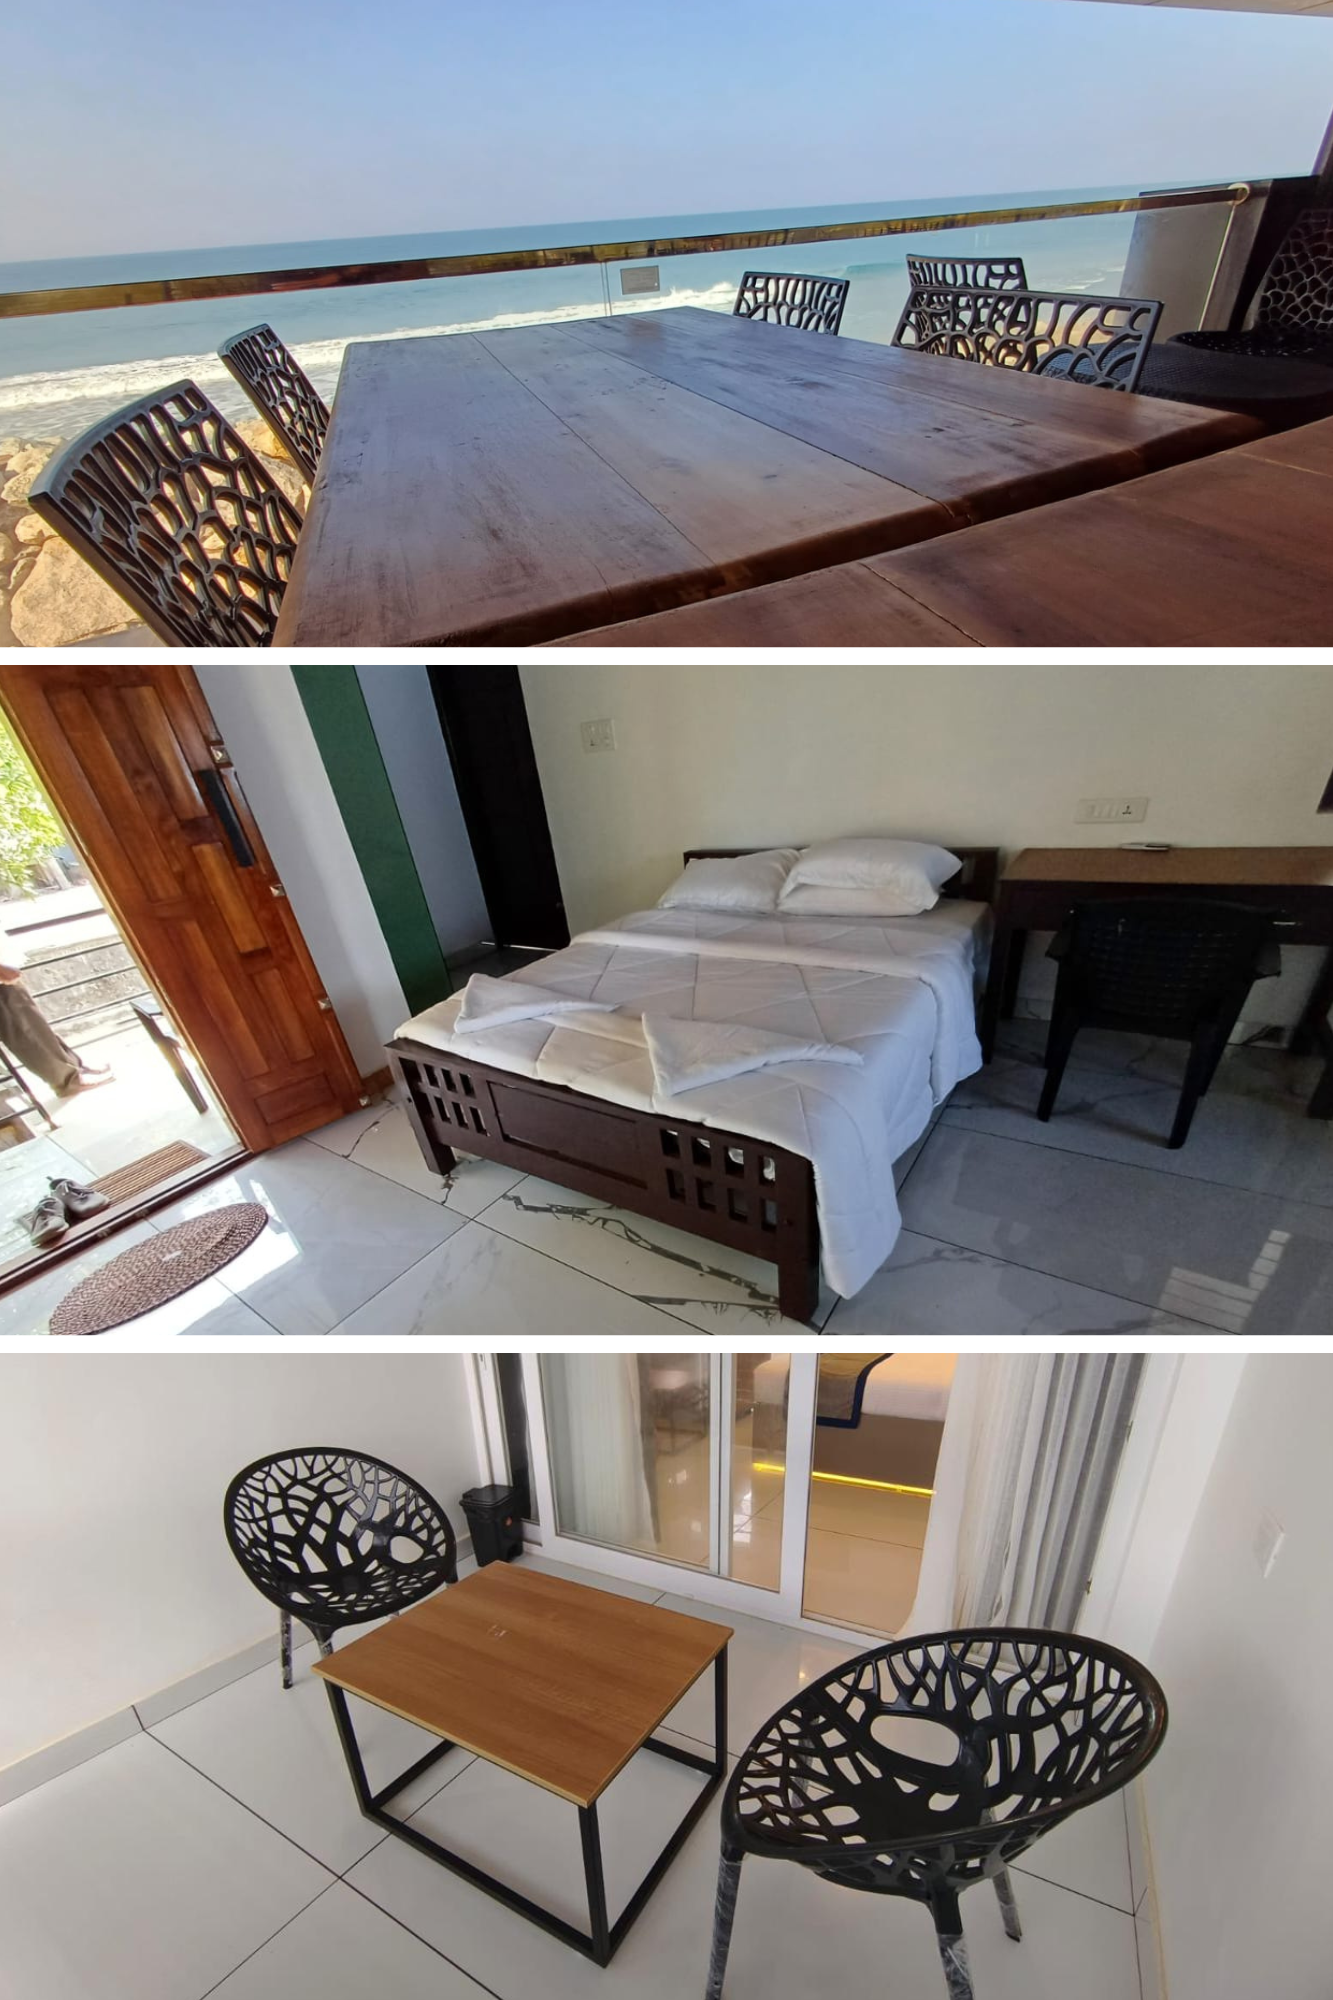
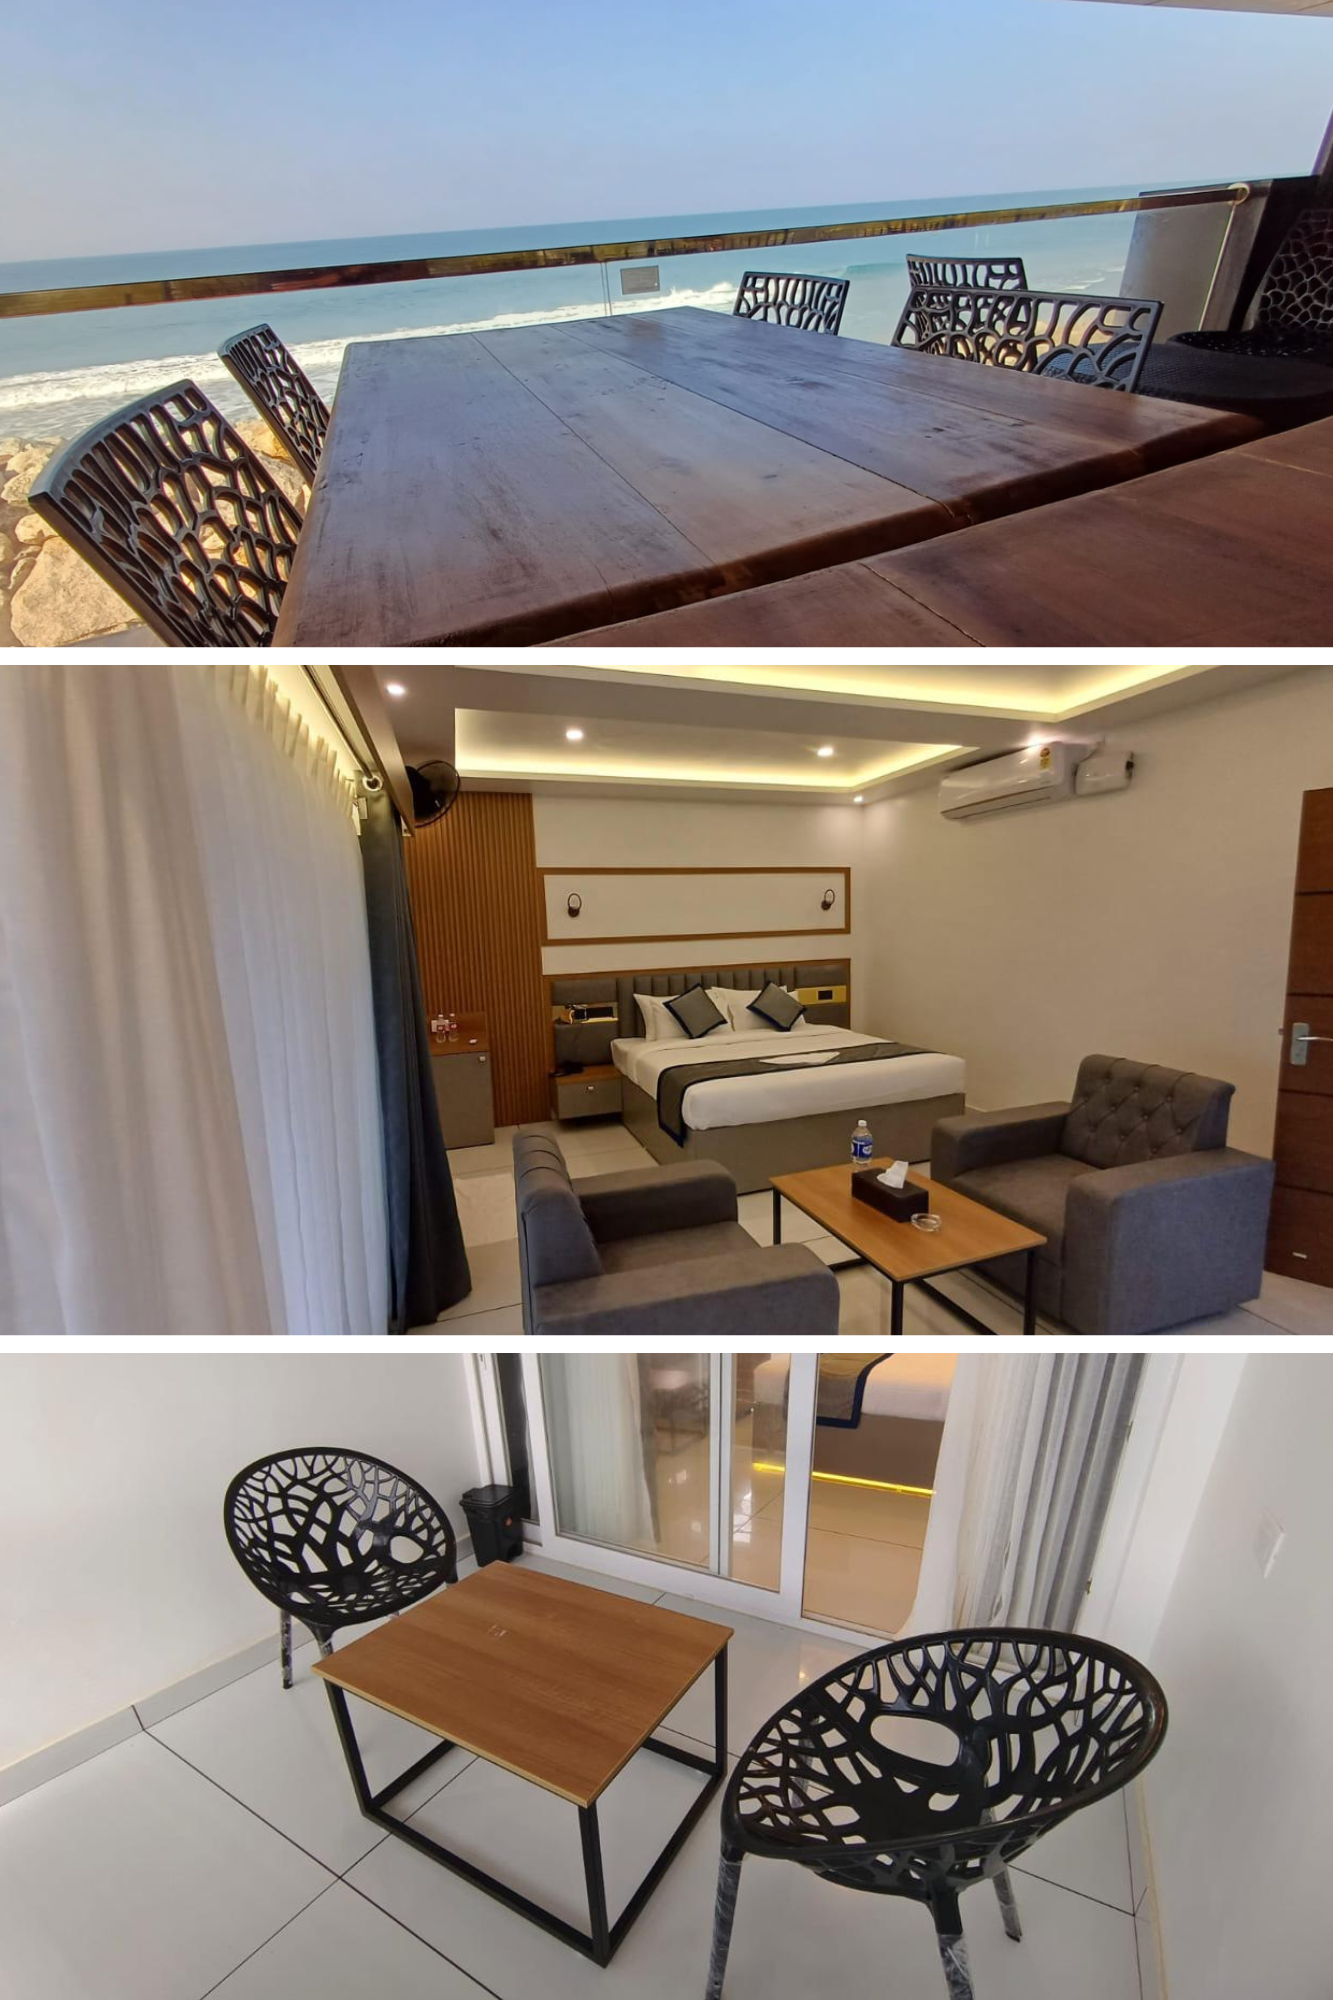
images updated as per clients requirement

Changed region(s): [[0.0, 0.31, 1.0, 0.682]]

diff --git a/index.html b/index.html
@@ -424,7 +424,7 @@
                                     data-aos-delay="200"
                                 >
                                     <img
-                                        src="assets/img/cards/premium.png"
+                                        src="assets/img/cards/beach.png"
                                         height="500"
                                         width="400"
                                         alt=""
@@ -590,7 +590,7 @@
                                 </div>
                                 <div class="col-lg-6 order-1 order-lg-2 text-center">
                                     <img
-                                        src="assets/img/cards/beach.png"
+                                        src="assets/img/cards/premium.png"
                                         alt=""
                                         height="500"
                                         width="400"

diff --git a/service-2.html b/service-2.html
@@ -155,7 +155,7 @@
                         <div class="col-lg-8">
                             <div id="service-content-remodeling" class="service-content active">
                                 <img
-                                    src="assets/img/services/01.jpeg"
+                                    src="assets/img/services/bonfire.jpg"
                                     alt="Remodeling Services"
                                     class="img-fluid services-img"
                                 />
